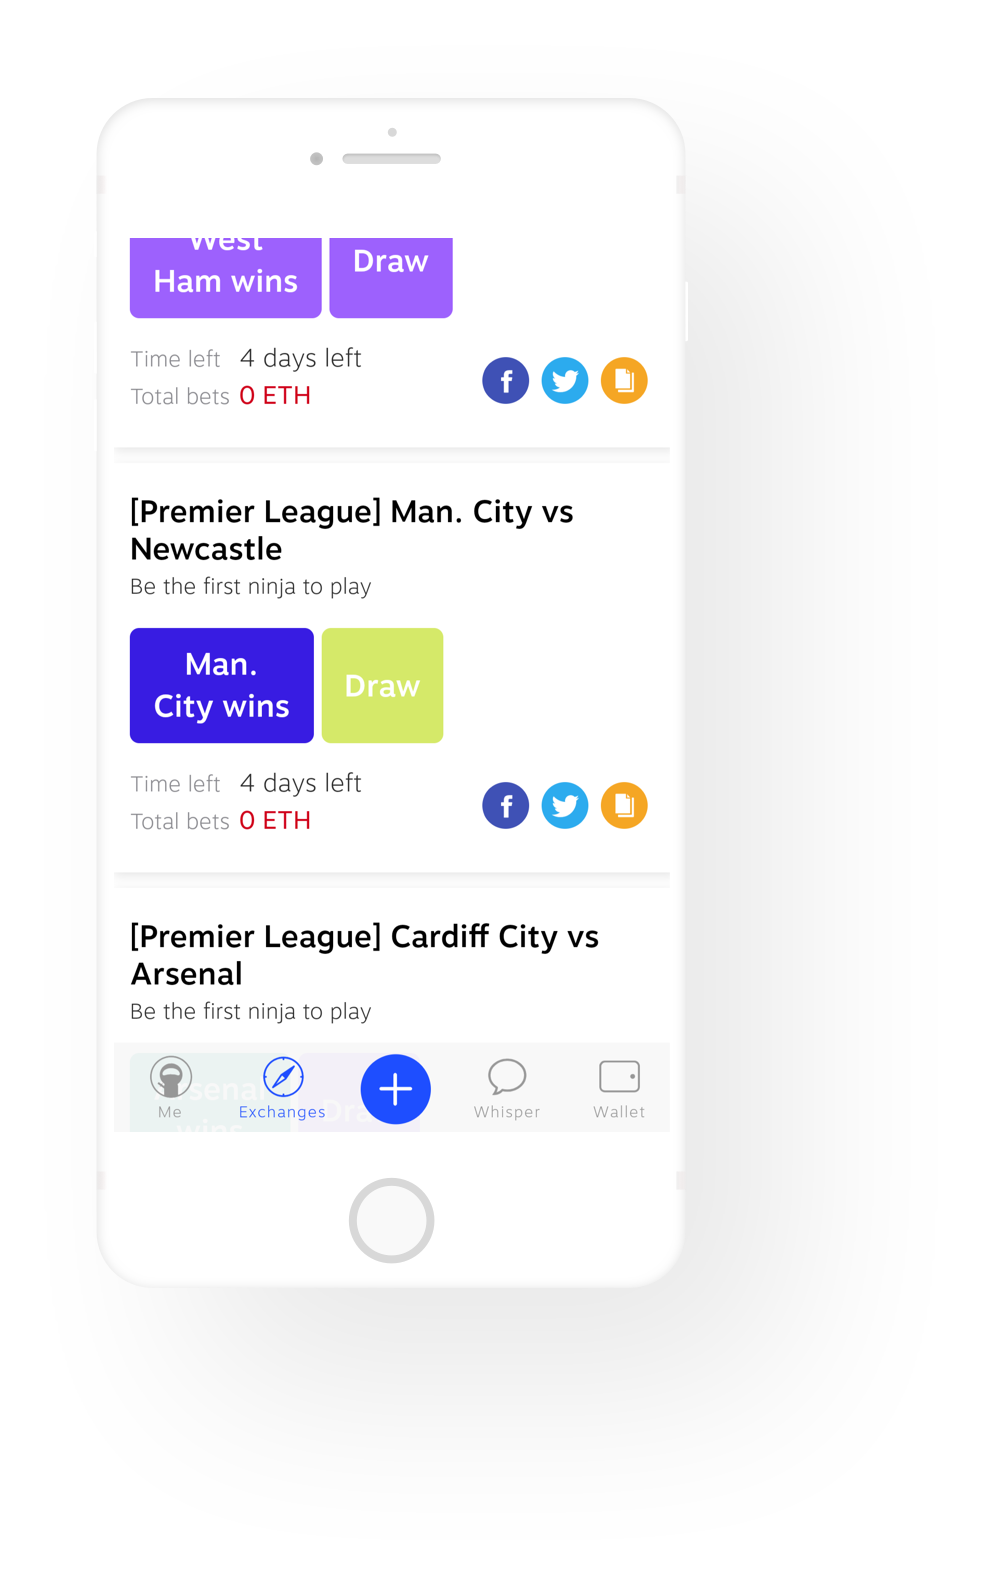
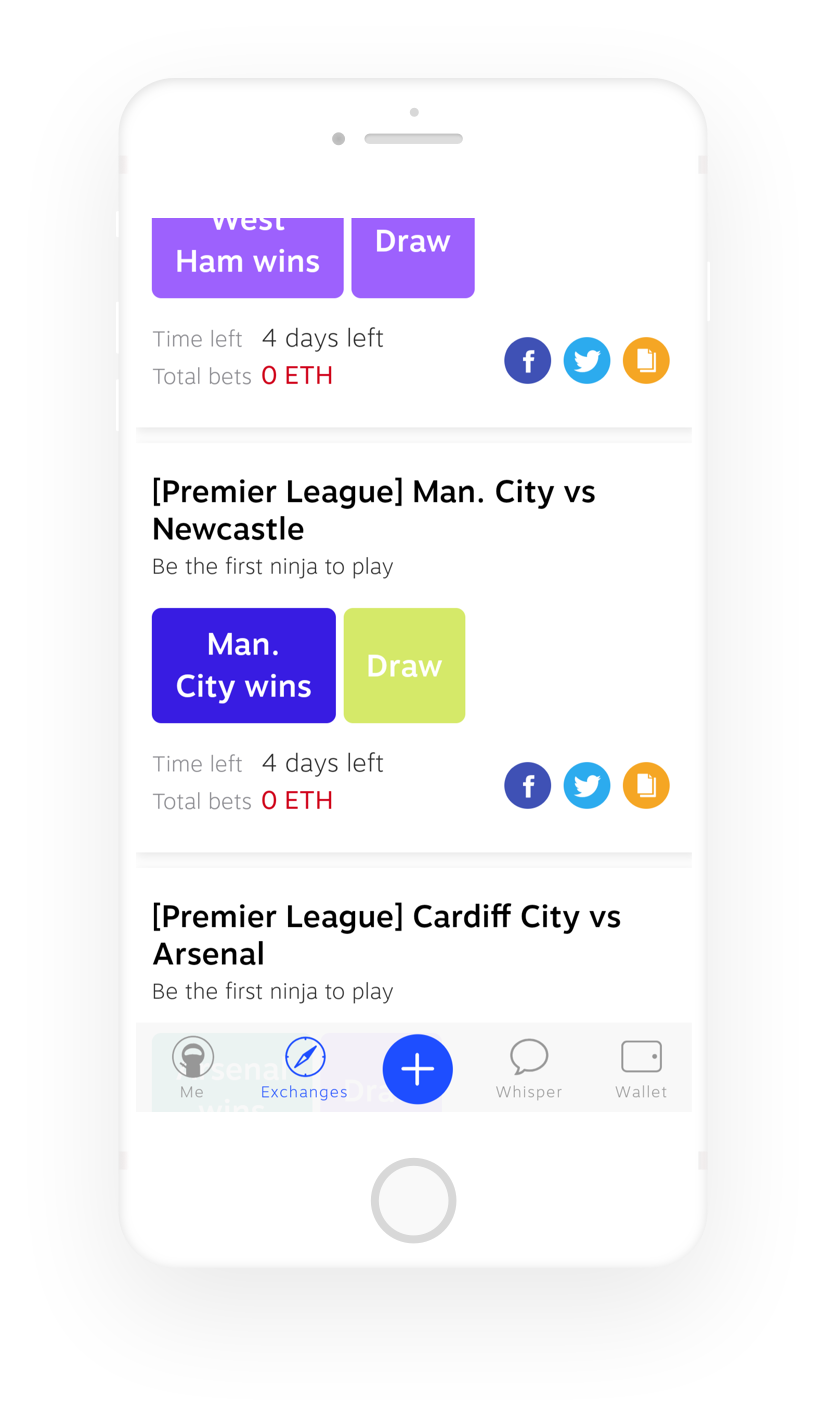
change image remove right shadow

diff --git a/src/pages/LandingPage/ContentForPexInstruction.scss b/src/pages/LandingPage/ContentForPexInstruction.scss
@@ -30,7 +30,7 @@
     text-align: center;
   }
   .wrapperImages {
-    margin-left: 55px;
+    //margin-left: 55px;
   }
   .content {
     line-height: 30px;
